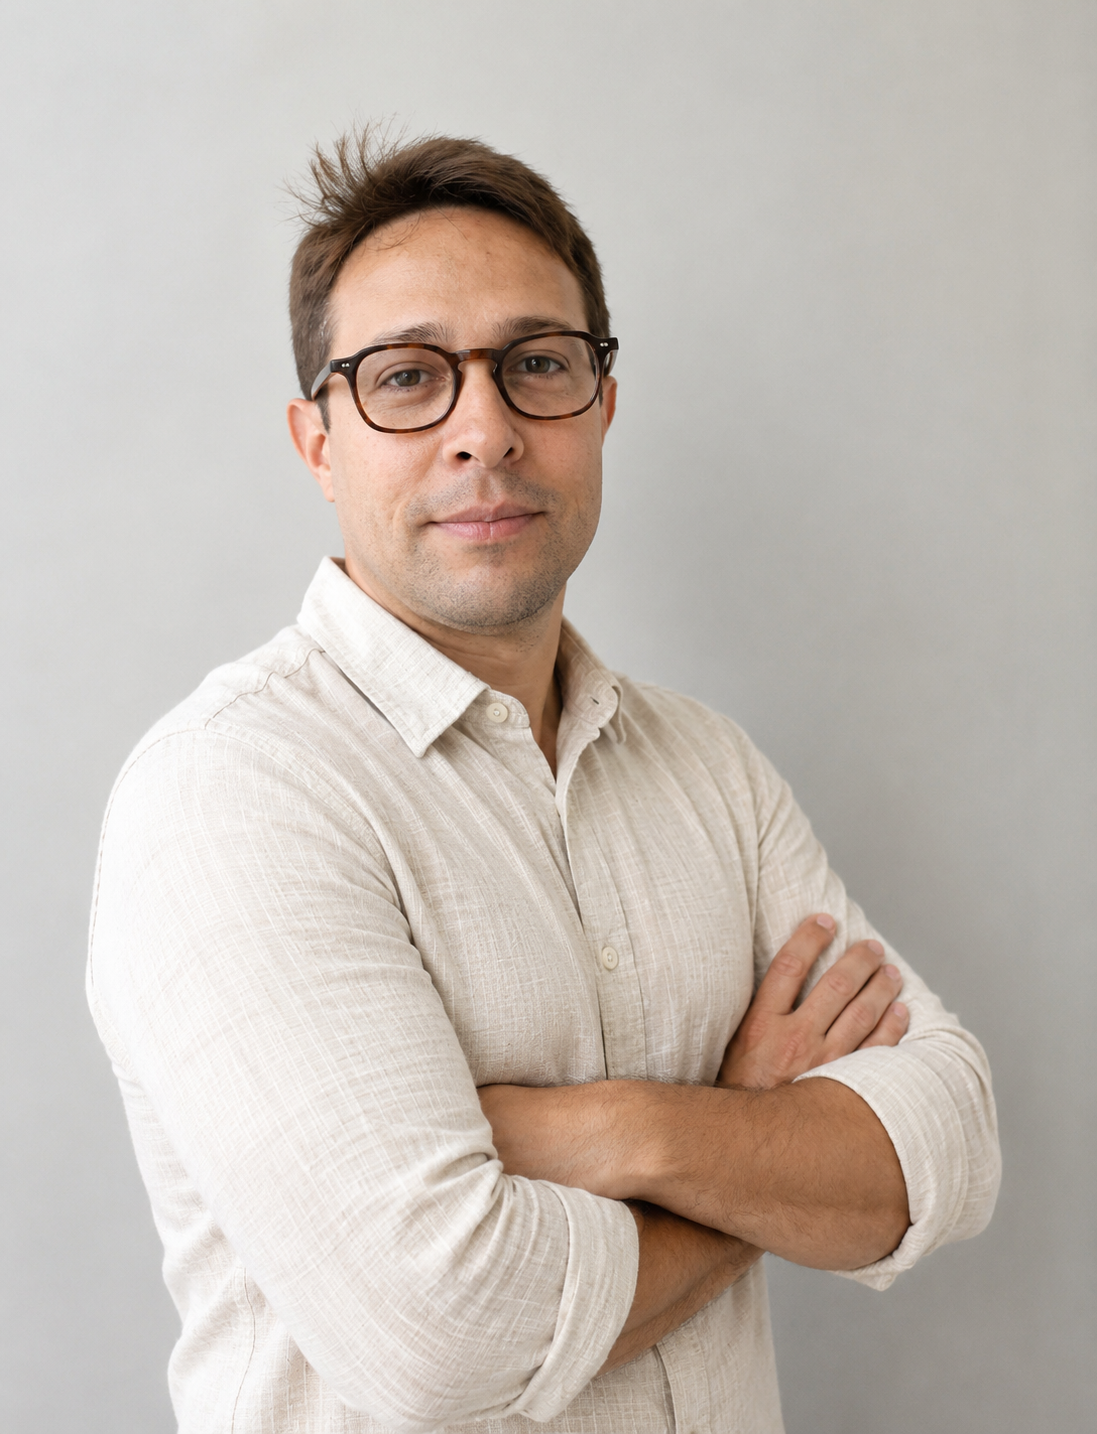
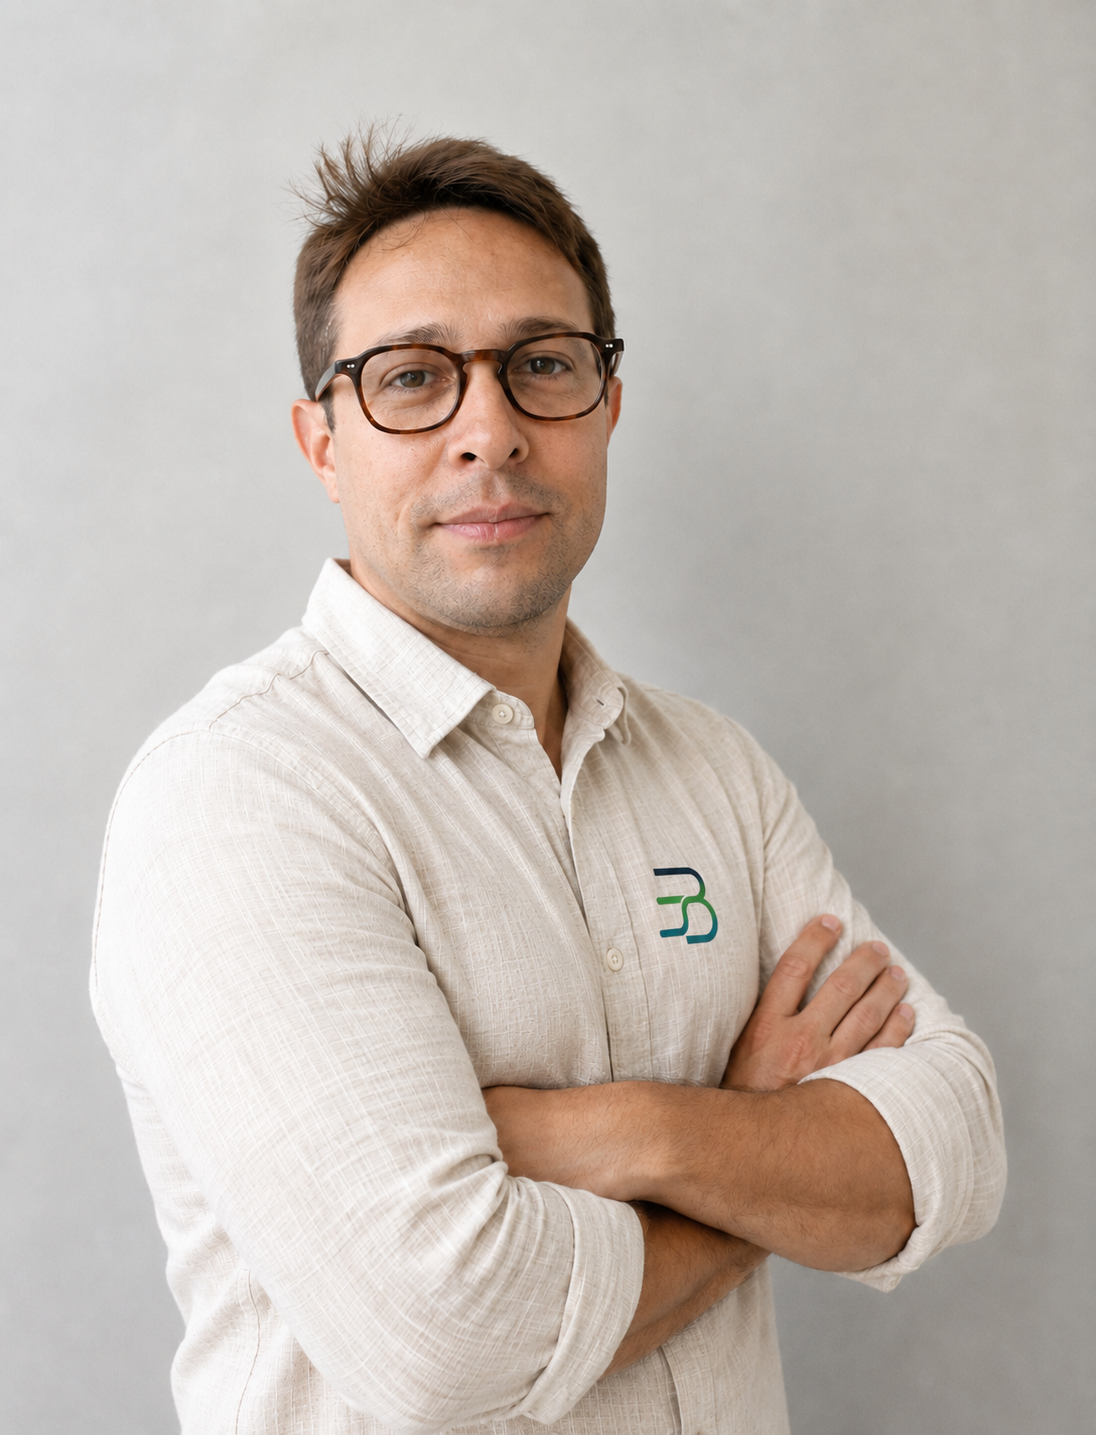
Atualizando final

diff --git a/Inicial.tsx b/Inicial.tsx
@@ -1078,6 +1078,20 @@ export const styles = `
     color: transparent;
   }
 
+  .hero-copy strong.hero-gold-dark {
+    background: linear-gradient(135deg, #b98a42 0%, #7a4f14 100%);
+    -webkit-background-clip: text;
+    background-clip: text;
+    color: transparent;
+  }
+
+  .hero-copy strong.hero-gold-strong {
+    background: linear-gradient(135deg, #fff3b0 0%, #ffb400 100%);
+    -webkit-background-clip: text;
+    background-clip: text;
+    color: transparent;
+  }
+
   .cta-row {
     display: flex;
     flex-wrap: wrap;
@@ -5306,7 +5320,8 @@ export default function Inicial() {
               <h1 className="title-xl">
                 Oferecemos consultorias e assessorias desburocratizadas, com soluções
                 personalizadas em{" "}
-                <strong>Meio Ambiente, Saúde e Segurança, QSMS, consultorias e auditorias</strong>.
+                <strong className="hero-gold-dark">Meio Ambiente, Saúde e Segurança</strong>,{" "}
+                <strong className="hero-gold-strong">QSMS, consultorias e auditorias</strong>.
               </h1>
               <p className="lead">
                 Para isso, contamos com uma equipe com aproximadamente 18 anos de experiência no
